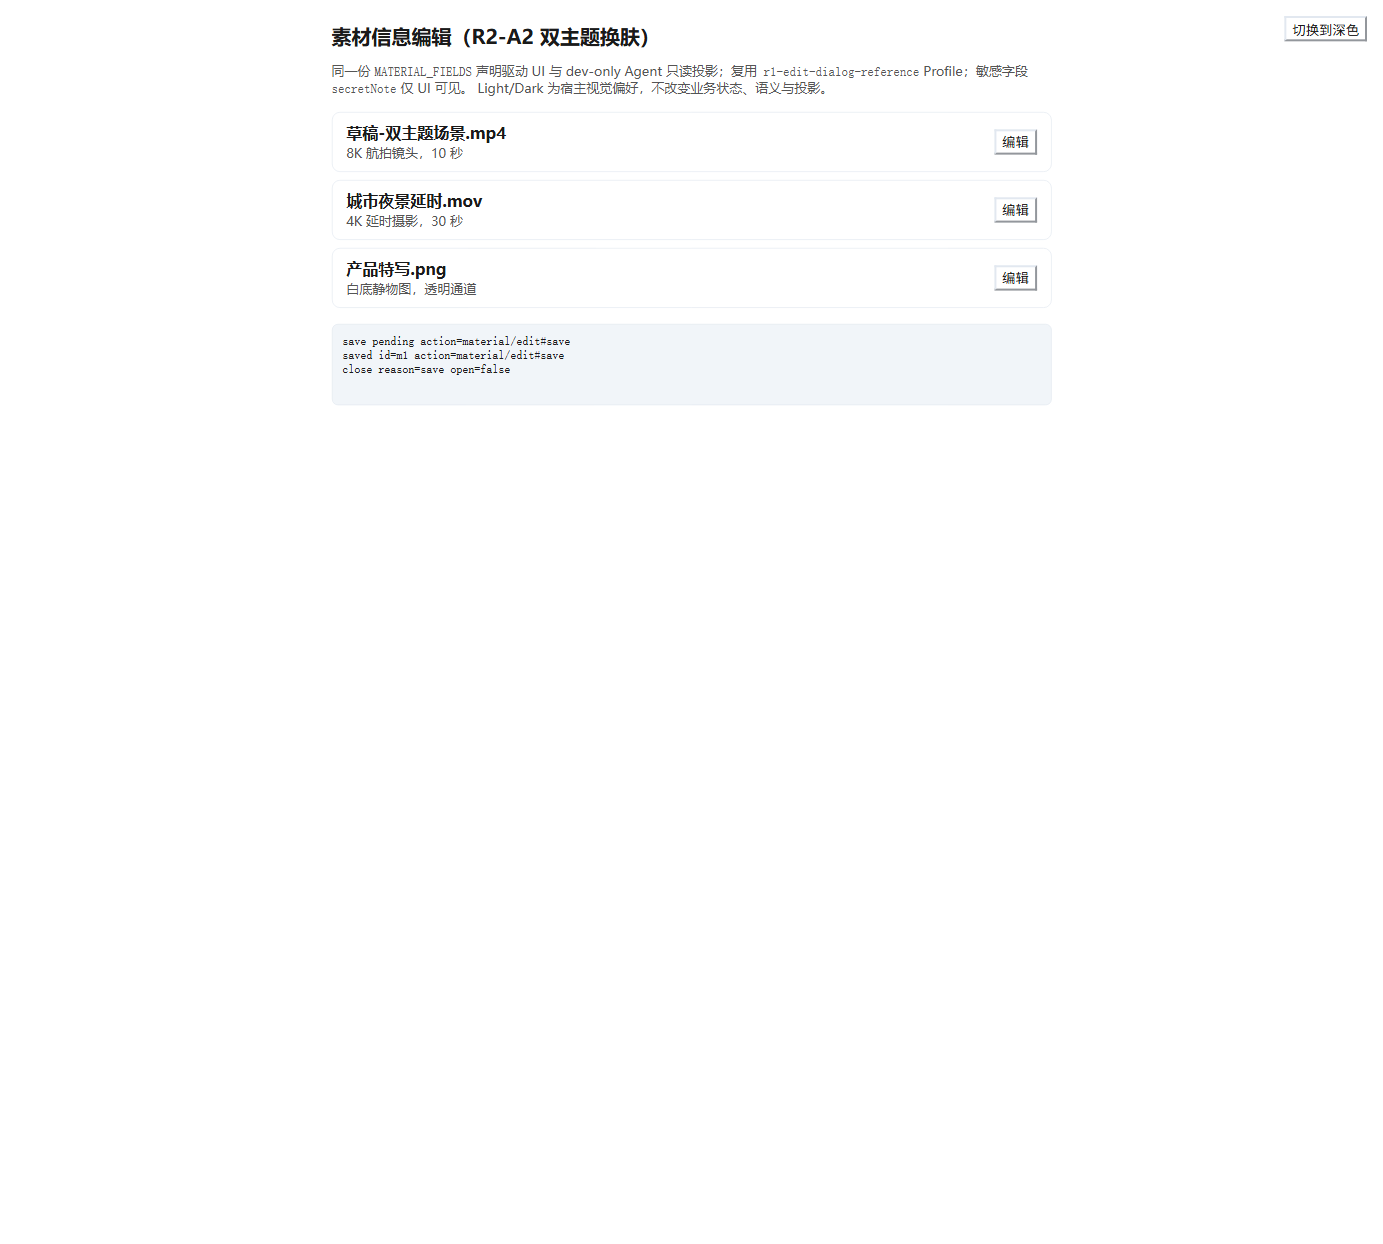
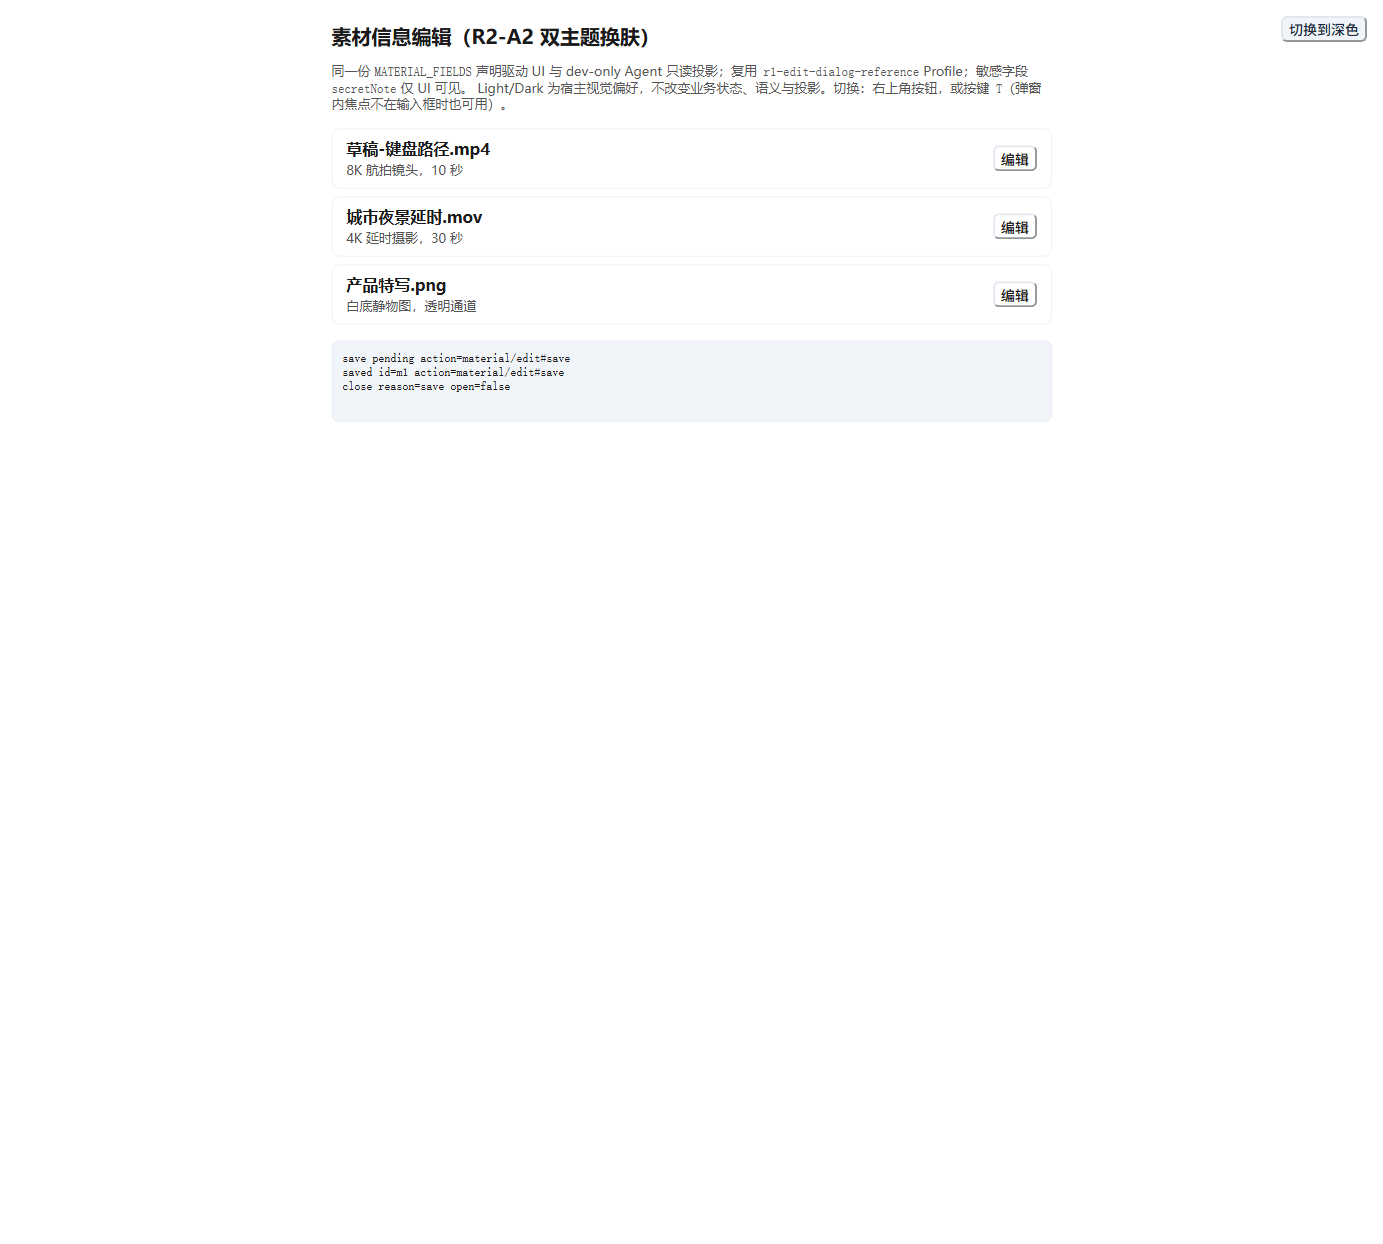
fix(examples): P1-1 Dialog 模态布局 + P1-2 模态期间主题切换真实可操作（pointer-events/键盘 T）
Review 5470176256 两项 P1 最小修复（同一 Draft PR #99）：
- P1-1: styles.css 补齐 vendored shadcn 布局工具类对应的 [data-slot] 布局
  （overlay/居中 content/close/header/footer/button/input/表单），Dialog 呈现
  真实模态（遮罩+居中+层级+焦点可见）；浅/深同场景截图已替换。
- P1-2: 真实 Chrome 实测 Radix modal 把 body 置为 pointer-events:none，
  仅 z-60 不解除拦截 → .me-theme-float 显式 pointer-events:auto；
  键盘路径：弹窗内按键 T 切换主题（输入框守卫），页面说明同步；
  新增 jsdom 键盘用例。真实输入验证（指针点击 + CDP 按键）覆盖
  Dialog 打开/草稿/pending 三态：切换不关闭/不丢草稿/pending 保持/
  reason=save 一次；Tab 陷阱属标准模态语义，如实记录。
验证：14/14；typecheck x7 0；eslint 0；全量 vitest 515 passed/4 skipped。

Changed region(s): [[0.2487, 0.0611, 0.4042, 0.3055], [0.5907, 0.0611, 0.7462, 0.2444], [0.9328, 0.0, 0.9949, 0.0305]]

diff --git a/examples/material-editor/src/styles.css b/examples/material-editor/src/styles.css
@@ -59,12 +59,16 @@ body {
   font-size: 20px;
 }
 
-/* 主题切换浮层：fixed + z-60，高于 Dialog overlay（z-50），弹窗打开时仍可点击 */
+/* 主题切换浮层：fixed + z-60，高于 Dialog overlay（z-50）。注意：Radix
+   modal 打开时会把 body 置为 pointer-events:none（外部子树不可命中），
+   仅靠 z-index 无法解除；示例端显式恢复 pointer-events:auto，使浮层在
+   弹窗打开时仍可被真实指针点击（不改任何公共契约）。 */
 .me-theme-float {
   position: fixed;
   top: 16px;
   right: 16px;
   z-index: 60;
+  pointer-events: auto;
 }
 
 .me-note {
@@ -130,6 +134,143 @@ body {
 
 [data-theme] .text-destructive {
   color: var(--future-ui-danger);
+}
+
+/* ============================================================
+ * P1-1 修复：vendored shadcn 布局工具类（fixed/居中/网格/内边距
+ * 等）在仓库内无编译 CSS，示例端在 [data-slot] 上补齐必要布局，
+ * 使 Dialog 呈现真正的模态弹窗（遮罩 + 居中 + 层级 + 关闭按钮 +
+ * 表单/按钮布局）。不改公共契约、不改 vendored 组件。
+ * ============================================================ */
+
+[data-slot='dialog-overlay'] {
+  position: fixed;
+  inset: 0;
+  z-index: 50;
+}
+
+[data-slot='dialog-content'] {
+  position: fixed;
+  top: 50%;
+  left: 50%;
+  transform: translate(-50%, -50%);
+  z-index: 50;
+  width: 100%;
+  max-width: calc(100% - 2rem);
+  display: grid;
+  gap: 1rem;
+  padding: 1.5rem;
+  border-radius: 0.5rem;
+  outline: none;
+}
+
+@media (min-width: 640px) {
+  [data-slot='dialog-content'] {
+    max-width: 32rem;
+  }
+}
+
+[data-slot='dialog-header'] {
+  display: flex;
+  flex-direction: column;
+  gap: 0.5rem;
+  text-align: center;
+}
+
+@media (min-width: 640px) {
+  [data-slot='dialog-header'] {
+    text-align: left;
+  }
+}
+
+[data-slot='dialog-title'] {
+  font-size: 1.125rem;
+  font-weight: 600;
+  line-height: 1;
+}
+
+[data-slot='dialog-description'] {
+  font-size: 0.875rem;
+}
+
+[data-slot='dialog-close'] {
+  position: absolute;
+  top: 1rem;
+  right: 1rem;
+  opacity: 0.7;
+  border: 0;
+  background: transparent;
+  cursor: pointer;
+}
+
+[data-slot='dialog-close'] svg {
+  width: 1rem;
+  height: 1rem;
+}
+
+[data-slot='dialog-footer'] {
+  display: flex;
+  flex-direction: column-reverse;
+  gap: 0.5rem;
+}
+
+@media (min-width: 640px) {
+  [data-slot='dialog-footer'] {
+    flex-direction: row;
+    justify-content: flex-end;
+  }
+}
+
+[data-slot='button'] {
+  display: inline-flex;
+  align-items: center;
+  justify-content: center;
+  gap: 0.5rem;
+  border-radius: 0.375rem;
+  font-size: 0.875rem;
+  font-weight: 500;
+  white-space: nowrap;
+  cursor: pointer;
+}
+
+[data-slot='input'] {
+  height: 2.25rem;
+  width: 100%;
+  min-width: 0;
+  border-radius: 0.375rem;
+  padding: 0.25rem 0.75rem;
+  font-size: 0.875rem;
+}
+
+[data-testid='edit-dialog-fields'] {
+  display: flex;
+  flex-direction: column;
+  gap: 1rem;
+}
+
+[data-testid='edit-dialog-fields'] > div {
+  display: flex;
+  flex-direction: column;
+  gap: 0.375rem;
+}
+
+[data-testid='edit-dialog-fields'] label {
+  font-size: 0.875rem;
+  font-weight: 500;
+}
+
+[data-testid='edit-dialog-pending-confirm'] {
+  display: flex;
+  flex-direction: column;
+  gap: 0.5rem;
+  border-radius: 0.375rem;
+  padding: 0.75rem;
+}
+
+[data-testid='edit-dialog-pending-confirm'] div {
+  display: flex;
+  justify-content: flex-end;
+  gap: 0.5rem;
 }
 
 /* ---------- Dialog（含 Portal 内） ---------- */

diff --git a/examples/material-editor/src/material-editor.tsx b/examples/material-editor/src/material-editor.tsx
@@ -41,6 +41,22 @@ export function MaterialEditorPage(): ReactElement {
     applyThemeToRoot(activeTheme);
   }, [activeTheme]);
 
+  // P1-2 键盘路径：模态 Dialog 的 Radix FocusScope 会把 Tab 限制在弹窗内
+  // （标准模态语义），右上角浮层在弹窗打开时不可 Tab 到达；示例端提供
+  // 按键 T 切换主题。焦点在输入框/文本域内时不触发（避免打断输入）。
+  useEffect(() => {
+    const onKeyDown = (event: KeyboardEvent): void => {
+      if (event.key !== 't' && event.key !== 'T') return;
+      const target = event.target as HTMLElement | null;
+      if (target && (target.tagName === 'INPUT' || target.tagName === 'TEXTAREA' || target.isContentEditable)) {
+        return;
+      }
+      setThemeName((prev) => (prev === 'light' ? 'dark' : 'light'));
+    };
+    window.addEventListener('keydown', onKeyDown);
+    return () => window.removeEventListener('keydown', onKeyDown);
+  }, []);
+
   const editing = materials.find((m) => m.id === editingId) ?? null;
   const pushLog = (line: string): void => setLog((prev) => [...prev, line]);
 
@@ -67,7 +83,9 @@ export function MaterialEditorPage(): ReactElement {
           <h1>素材信息编辑（R2-A2 双主题换肤）</h1>
         </div>
         {/* 主题切换为 fixed 浮层（z-60 > Dialog overlay z-50）：Dialog 打开时
-            仍可真实点击换肤；主题只是宿主视觉偏好，不触碰业务状态。 */}
+            仍可真实指针点击换肤；键盘路径见按键 T（FocusScope 将 Tab 限制在
+            弹窗内，故浮层不可 Tab 到达——标准模态语义）。主题只是宿主视觉
+            偏好，不触碰业务状态。 */}
         <div className="me-theme-float">
           <ShadcnButton
             type="button"
@@ -82,7 +100,8 @@ export function MaterialEditorPage(): ReactElement {
         <p className="me-note">
           同一份 <code>MATERIAL_FIELDS</code> 声明驱动 UI 与 dev-only Agent 只读投影；复用
           <code> r1-edit-dialog-reference</code> Profile；敏感字段 <code>secretNote</code> 仅 UI 可见。
-          Light/Dark 为宿主视觉偏好，不改变业务状态、语义与投影。
+          Light/Dark 为宿主视觉偏好，不改变业务状态、语义与投影。切换：右上角按钮，或按键
+          <code> T</code>（弹窗内焦点不在输入框时也可用）。
         </p>
 
         <ul className="me-list" data-testid="me-list">

diff --git a/examples/material-editor/tests/material-editor.test.tsx b/examples/material-editor/tests/material-editor.test.tsx
@@ -331,4 +331,27 @@ describe('R2-A2 双主题换肤（状态保持 + 事件次数）', () => {
     expect(afterProjection.map((f) => f.name)).toEqual(['displayName', 'description']);
     expect(projectSaveAction().ref).toBe(MATERIAL_SAVE_ACTION.ref);
   });
+
+  test('P1-2 键盘路径：按键 T 切换主题，但焦点在输入框内时不触发（输入守卫）', () => {
+    render(<MaterialEditorPage />);
+    const html = () => document.documentElement;
+    expect(html().getAttribute('data-theme')).toBe('light');
+
+    // 焦点在非输入元素（如取消按钮）→ 按 T 切换
+    fireEvent.click(screen.getByTestId('me-row-m1').querySelector('button')!);
+    const cancelBtn = screen.getByRole('button', { name: '取消' });
+    cancelBtn.focus();
+    fireEvent.keyDown(cancelBtn, { key: 't' });
+    expect(html().getAttribute('data-theme')).toBe('dark');
+
+    // 焦点在输入框内 → 按 T 不切换（避免打断输入）
+    const input = screen.getByDisplayValue('春日山景.mp4') as HTMLInputElement;
+    input.focus();
+    fireEvent.keyDown(input, { key: 't' });
+    expect(html().getAttribute('data-theme')).toBe('dark');
+    // 输入框里实际输入 t 也属于正常输入，不触发切换
+    fireEvent.change(input, { target: { value: '春日山景-t.mp4' } });
+    expect(html().getAttribute('data-theme')).toBe('dark');
+    expect(screen.getByDisplayValue('春日山景-t.mp4')).toBeTruthy();
+  });
 });

diff --git a/docs/r1-rc/rc98-r2a2-theming.md b/docs/r1-rc/rc98-r2a2-theming.md
@@ -1,10 +1,61 @@
 # R2-A2 · #98 同一素材编辑页双主题换肤（Light/Dark）
 
-**状态：** 实现完成 · 停在 `AWAITING_INDEPENDENT_REVIEW`（Draft PR，交 ChatGPT 独立 Review）
+**状态：** 实现 + 首轮 Review（#99 独立 Review 5470176256）已完成；**P1 修复轮已交付**，
+停在 `AWAITING_INDEPENDENT_REVIEW`（Draft PR，等负责人/用户增量复审）
 **授权：** #4 Current Grant R2-A2-001（ACTIVE，#6077486895）；#98 交接评论 #6077510419
 **执行者：** 豆包（用户指定接替 Windows Codex）
 **基线（main）：** `cec1a1aeaf220624a3211b7d5e3ff773625ba7ea`（= PR #97 squash merge）
 **分支/worktree：** `feat/r2-a2-98-theming` @ `E:\projects\future-ui-r2a2`
+**P1 修复轮 HEAD：** `2f25774`（前一轮 HEAD `e01decedc1fd9305c87cfe93d796446a79cc4e27`）
+
+---
+
+## 0. P1 修复轮（Review 5470176256 → 增量复审）
+
+Review 结论两项 P1（+ 一项不阻塞技术债），本轮在**同一 Draft PR #99** 最小修复：
+
+### P1-1：Dialog 视觉/模态未达验收 → 已修
+- **根因**：`main.tsx` 只导入 `styles.css`，vendored shadcn 的 Tailwind 布局工具类
+  （`fixed inset-0 z-50`、`top-[50%] left-[50%]`、`grid/p-6/rounded-lg` 等）在仓库内无
+  编译 CSS，全部不生效 → Dialog 呈现为页面中间横贯的普通区块、无遮罩、Close 在左下。
+- **最小修复**：`styles.css` 新增 P1-1 布局块（仅 example 范围，`[data-slot=…]` 定向）：
+  - `dialog-overlay`：fixed inset-0 z-50（可见遮罩）；
+  - `dialog-content`：fixed top/left 50% + translate(-50%,-50%) 居中、z-50、宽度受控
+    （max-width 100%-2rem / sm 32rem）、grid gap、padding、圆角、outline none；
+  - `dialog-header/footer/title/description/close`：header 布局、footer 右对齐
+    （sm 行内）、close absolute top/right、去边框、svg 尺寸；
+  - `button/input`：基础布局（inline-flex、居中、圆角、高度、宽度、内边距）；
+  - 表单（`edit-dialog-fields`）与 pending 容器布局。
+- **新证据**：`rc98-material-editor-{light-dialog,dark-dialog}.png` 已替换为真实 Chrome
+  同场景截图：浅/深 Dialog 均**居中模态**（视口 1383×1243 下 content 位于 412,390 · 560×464，
+  中心 ≈ 视口中心）、全屏遮罩可见、Close 在弹窗右上、表单/按钮布局正常、输入框焦点环可见。
+
+### P1-2：模态期间主题按钮真实可操作性缺证明 → 已修并验证
+- **真实缺陷（审查预判成立）**：Radix modal 打开时把 `body` 置为 `pointer-events:none`
+  （外部子树不可命中），**仅 z-60 不解除限制**——真实指针点击浮层被 overlay 拦截
+  （`elementFromPoint` 实测命中 overlay，浮层不在命中栈）。jsdom `fireEvent.click` 不建模
+  该行为，故此前测试无法发现。
+- **最小修复**：`.me-theme-float` 显式 `pointer-events: auto`（仅 example 范围，不改公共
+  契约、不改 vendored 组件）。修复后 `elementFromPoint(浮层中心)` 实测命中切换按钮。
+- **真实交互验证（非强制点击、非 JS dispatch，全部真实输入事件）**：
+  | 状态 | 输入路径 | 结果 |
+  | --- | --- | --- |
+  | Dialog 打开 + 草稿未保存 | 真实指针点击（CDP mouse → `bu.click`）浮层 | dark 生效：页面/dialog/overlay 全部换色；Dialog 不关闭、草稿保持、日志零新增 |
+  | 同上（键盘） | 焦点在弹窗内「保存并关闭」，真实按键 `t`（CDP keyDown/keyUp） | 切换 dark→…：主题切换、焦点保持在按钮、无字符插入 |
+  | 输入守卫 | 焦点在输入框，真实按键 `t` | 主题**不**切换（避免打断输入） |
+  | Tab 陷阱 | 焦点在弹窗内按钮，真实 Tab | 焦点移到弹窗内另一元素（Close），**仍在 Dialog 内**——浮层不可 Tab 到达，属标准模态语义（FocusScope），如实记录 |
+  | pending（保存中） | 真实指针点击浮层 | busy/disabled 保持、`reason=save` 恰好一次、列表更新一次、Dialog 正常关闭 |
+- **键盘可操作性说明**：弹窗内键盘用户无法 Tab 到弹窗外浮层（模态 FocusScope 有意限制），
+  示例端提供按键 `T`（焦点不在输入框时）作为弹窗内键盘路径；页面说明文案已同步。
+
+### 不阻塞项（如实标记，未扩大范围）
+- `@future-ui/theme` 公共包入口 `node:fs` 技术债仍以示例 source alias 绕过，**不改公共包**；
+- 未重跑模型矩阵/跨浏览器；本轮仅跑 typecheck ×7 / eslint / 全量 vitest / 一次真实 Chrome。
+
+### P1 修复轮验证
+- 定向 jsdom：**14/14**（新增 1 例键盘路径：按键 T 切换 + 输入守卫）。
+- 既有 CI：typecheck ×7 **0**、eslint **0**、全量 vitest **55 files / 515 passed / 4 skipped**。
+- 真实 Chrome：上述交互矩阵全通过；证据 4 张已更新/新增（见 §5）。
 
 ---
 
@@ -58,29 +109,35 @@
    `packages/theme/src/provider.tsx`（其只依赖 react，即 D08 data-theme + token 表面的
    真实实现），实现真正的 ThemeProvider 复用且浏览器安全；`package.json` 仍声明该依赖
    以保留类型解析。
-2. **Modal 与主题切换入口冲突**：Radix Dialog overlay 为 fixed inset-0 z-50，会盖住页面
-   头部按钮。核实 radix-ui 1.7.0 该版本不对外部子树 inert/aria-hidden（仅 overlay + 焦点
-   陷阱），因此主题切换做成 fixed z-60 浮层，Dialog 打开时真实可点击。
+2. **Modal 与主题切换入口冲突（P1-2，审查后确认并修复）**：Radix Dialog overlay 为
+   fixed inset-0 z-50；真实 Chrome 实测**仅 z-60 不够**——modal 打开时 `body` 被置为
+   `pointer-events:none`，外部浮层不可命中，真实点击被 overlay 拦截。修复：`.me-theme-float`
+   显式 `pointer-events:auto`；键盘路径为弹窗内按键 `T`（FocusScope 将 Tab 限制在弹窗内，
+   属标准模态语义）。见 §0。
 3. **NOT-TESTED / 已知限制**：
    - 键盘 Escape 关闭仍受既有主机焦点策略拦截（#96 已记录，非本轮范围）；
+   - 浮层在 Dialog 打开时不可 Tab 到达（Radix FocusScope 模态焦点陷阱，标准行为）；
+     弹窗内键盘切换用按键 `T` 代替；
    - jsdom 不做真实 CSS 计算，视觉证据以 Chrome 截图为准；
    - 未做跨浏览器/跨 UI 库矩阵（#98 明确不要求）；
    - `packages/theme` 的 `useTheme/useVariantTokens` 本轮未使用（保留扩展位）。
 
 ## 5. 验证结果
 
-- 定向 jsdom（`corepack pnpm --filter @future-ui-examples/material-editor demo`）：**13/13 通过**
-  （R2-A1 9 例 + R2-A2 4 例）。
-- 既有 CI：typecheck ×7 **0 错误**；eslint **0**；全量 vitest **55 files / 514 passed / 4 skipped**。
-- 真实 Chrome smoke（loopback `127.0.0.1:5176`，受控一次）：
-  浅色初始 → 打开 Dialog + 草稿 + 焦点 → **Dialog 打开时切深色**（DOM：dlgBg `rgb(16,26,44)`、
-  border `rgb(42,58,86)`、text `rgb(230,237,247)`、overlay `rgba(0,0,0,.65)`；草稿/焦点保持、
-  日志无新增）→ 深色下保存 → pending 中切回浅色（busy 保持、无重复 pending）→ 保存完成
-  `reason=save` 一次、列表更新一次、日志仅含 Action 引用（无字段值）；0 console error/warning、
-  0 外部请求、0 HTTP 错误。
+- 定向 jsdom（`corepack pnpm --filter @future-ui-examples/material-editor demo`）：**14/14 通过**
+  （R2-A1 9 例 + R2-A2 5 例：换肤状态保持、事件次数、键盘 T + 输入守卫）。
+- 既有 CI：typecheck ×7 **0 错误**；eslint **0**；全量 vitest **55 files / 515 passed / 4 skipped**。
+- 真实 Chrome（loopback `127.0.0.1:5176`）：
+  - **P1-1 模态呈现**：浅/深 Dialog 均居中模态 + 全屏遮罩 + Close 右上 + 焦点可见
+    （同场景截图 `rc98-material-editor-{light-dialog,dark-dialog}.png`）；
+  - **P1-2 真实交互**：Dialog 打开/草稿/pending 三态，真实指针点击与真实按键 `t` 均可
+    切换主题；输入守卫、Tab 陷阱符合预期；pending 中切换不重复保存（`reason=save` 一次、
+    列表更新一次）；日志仅含 Action 引用；0 console error/warning、0 外部请求。
 - 证据：`docs/r1-rc/evidence/rc98-material-editor-{light,light-dialog,dark-dialog,after-save}.png`。
 
 ## 6. 停止门
 
-- 中文 Draft PR **Refs #98**，base `cec1a1ae` / head 见 PR；未 merge / close / tag / release / publish。
-- 交给 ChatGPT 独立 Review；负责人决定合并。
+- 中文 Draft PR **Refs #98**，base `cec1a1ae` / head 见 PR（P1 修复轮已 push 同一分支）；
+  未 merge / close / tag / release / publish。
+- 停在 `AWAITING_INDEPENDENT_REVIEW`：等负责人/用户增量复审；通过后再交 ChatGPT
+  正式确认合并。
